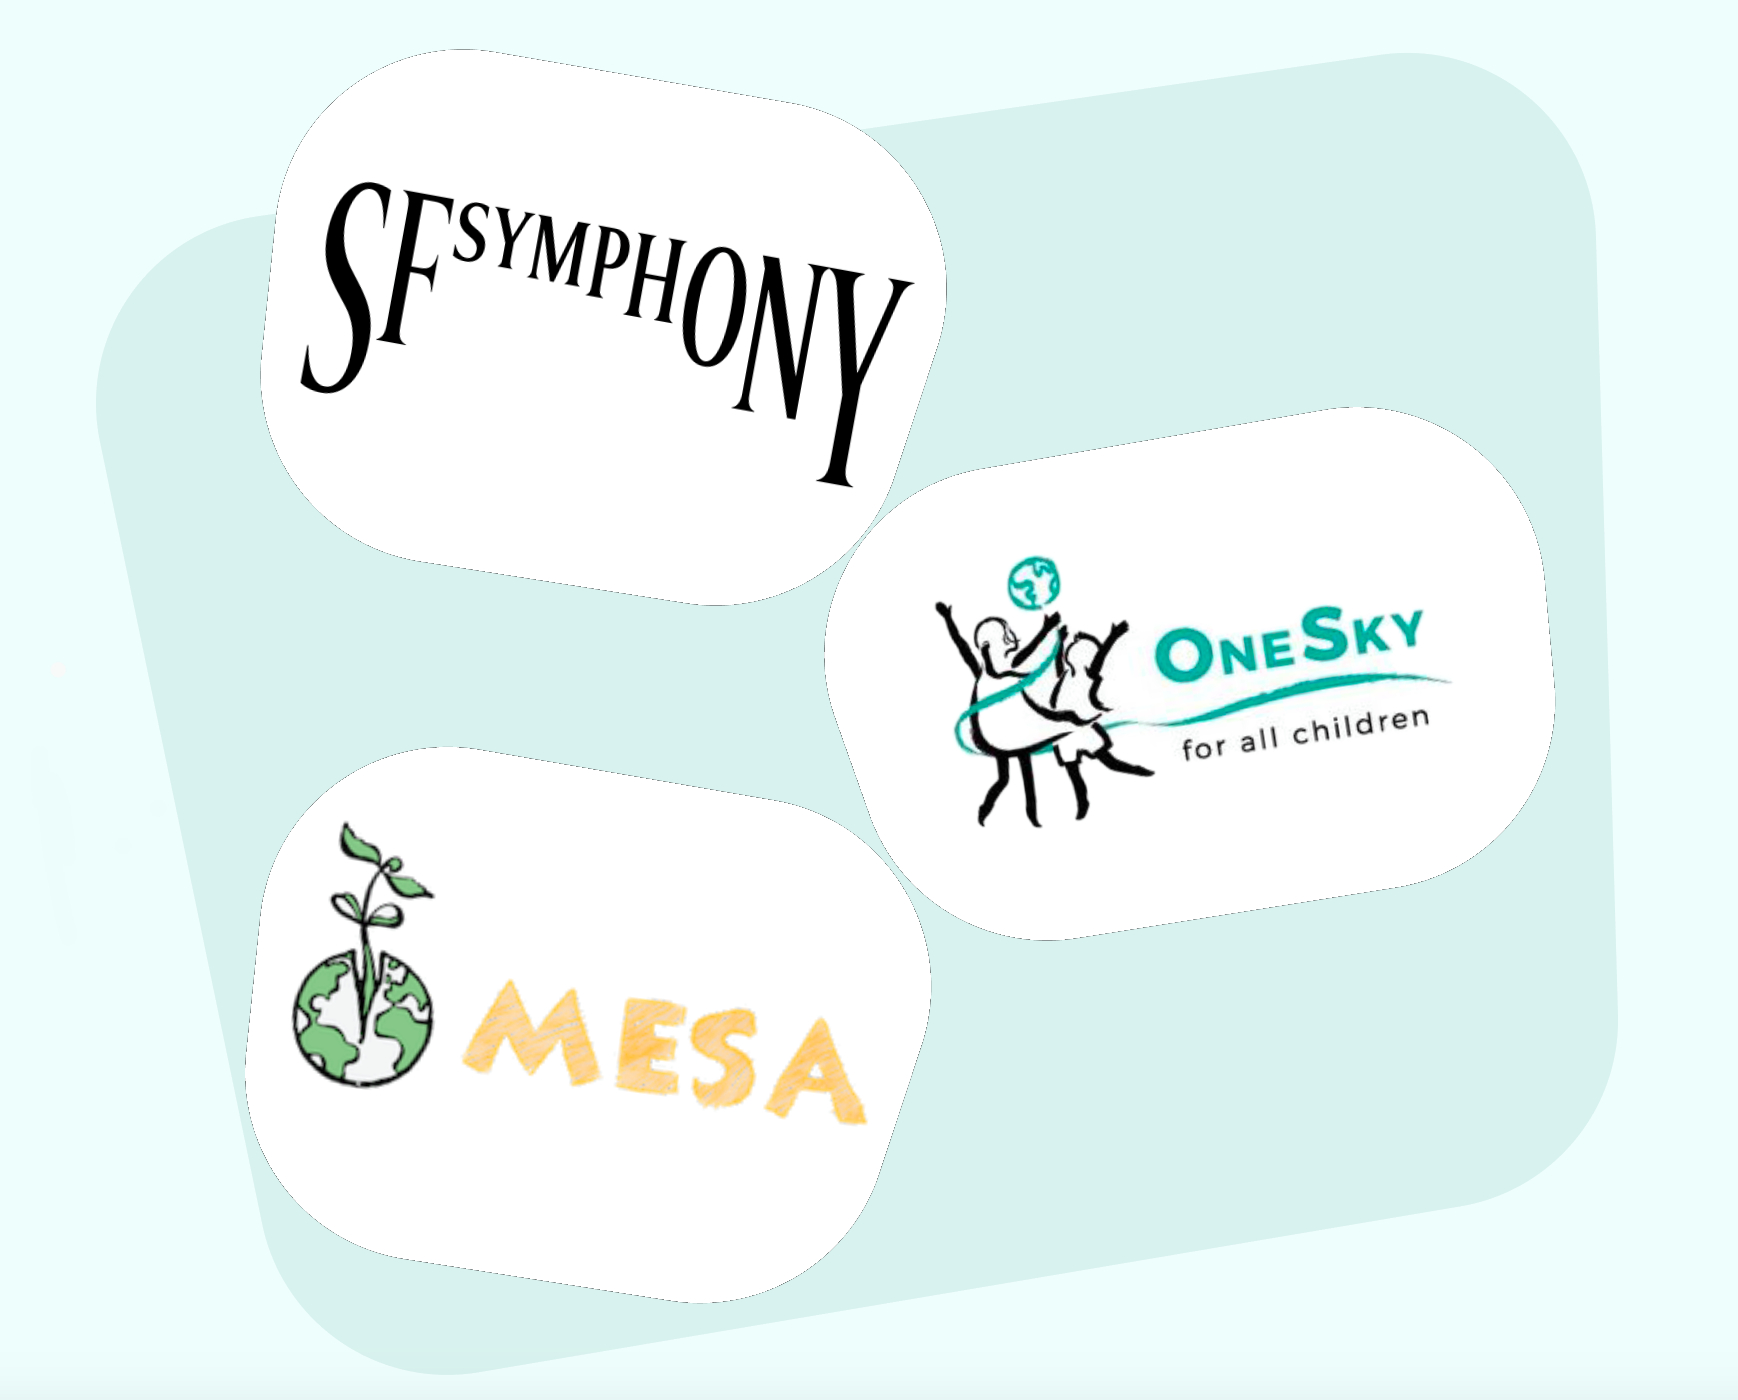
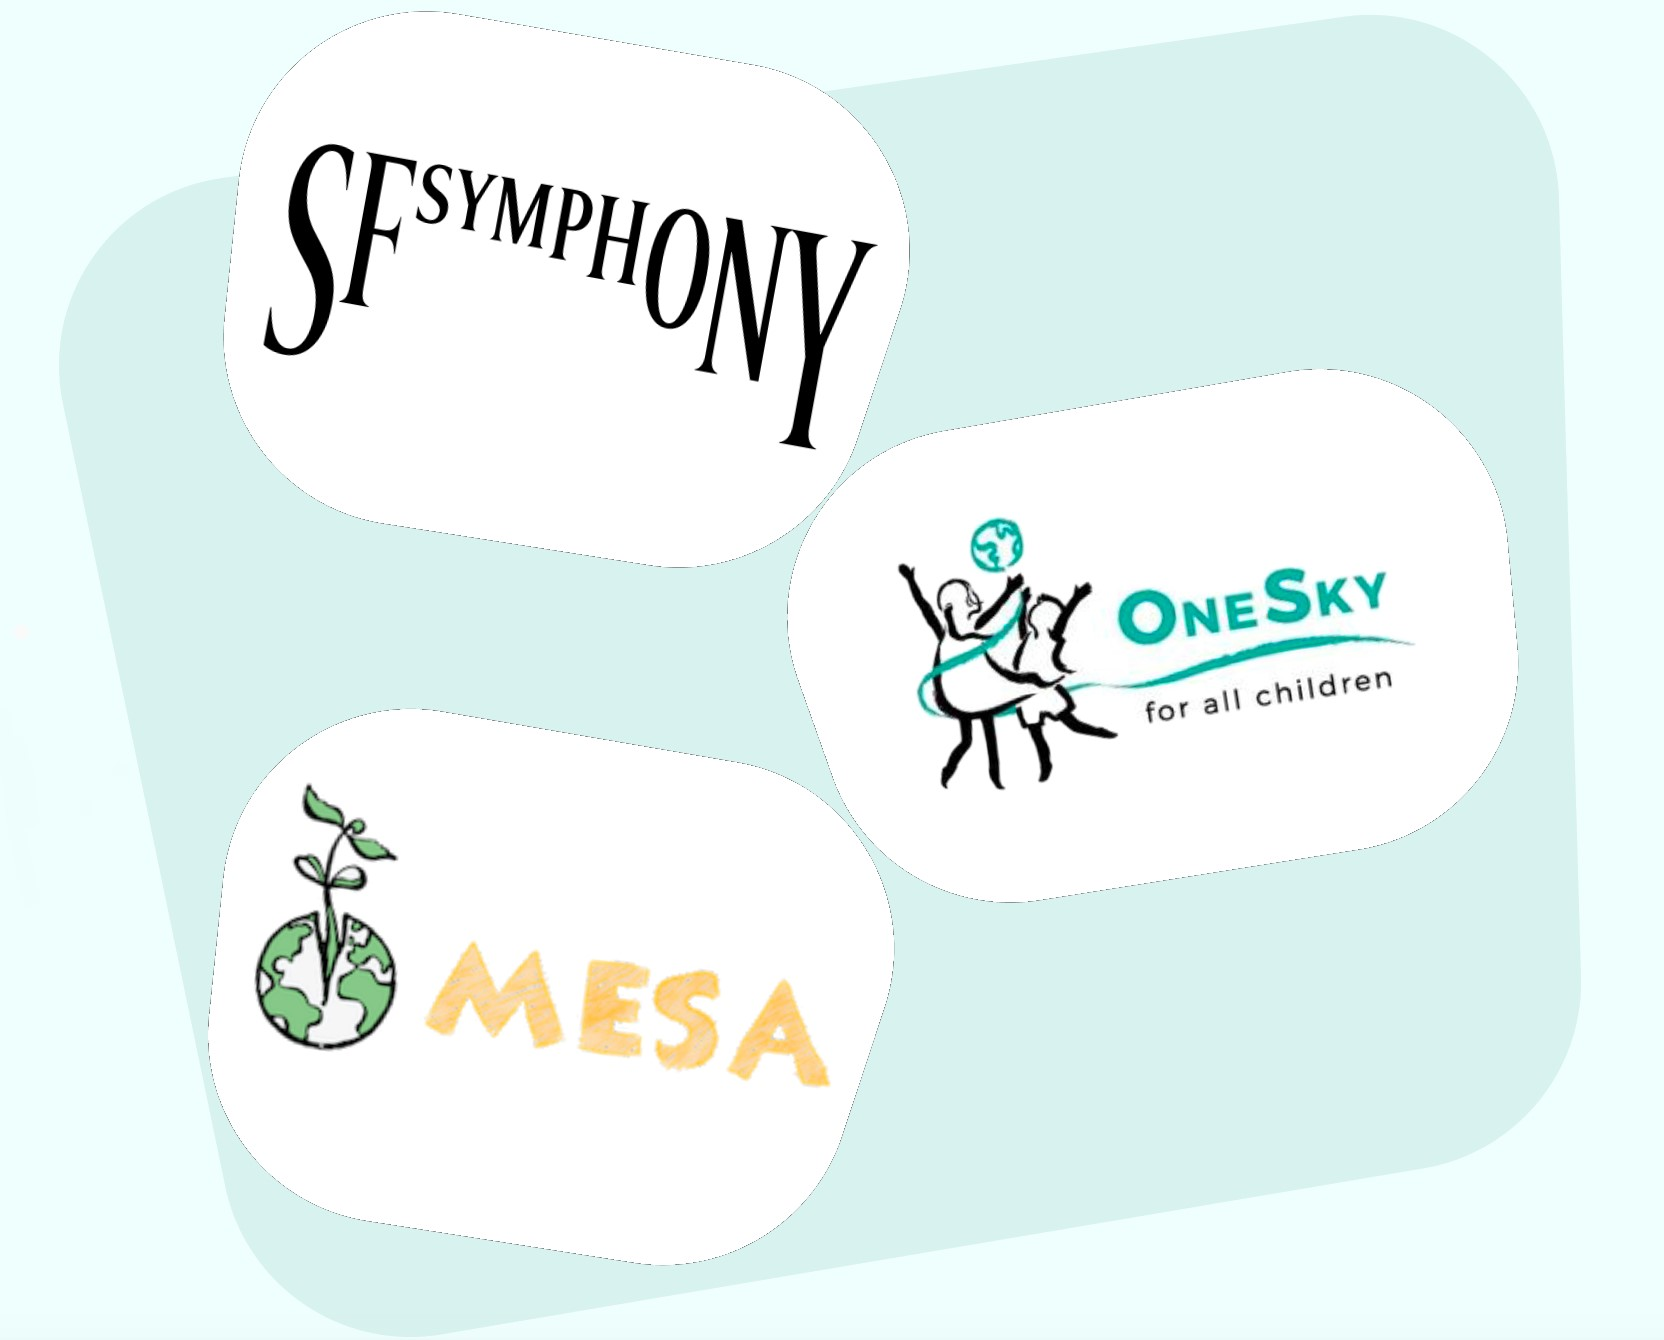
improve projects img on home

diff --git a/css/home.css b/css/home.css
@@ -211,10 +211,9 @@ svg.defs {
 }
 
 .proj-image {
+  object-fit:contain;
   width: 85%;
-  height: fit-content;
   transition: transform 0.5s ease-in-out;
-  clip-path: inset(0 0 6px 0);
 }
 
 .proj-image:hover {
